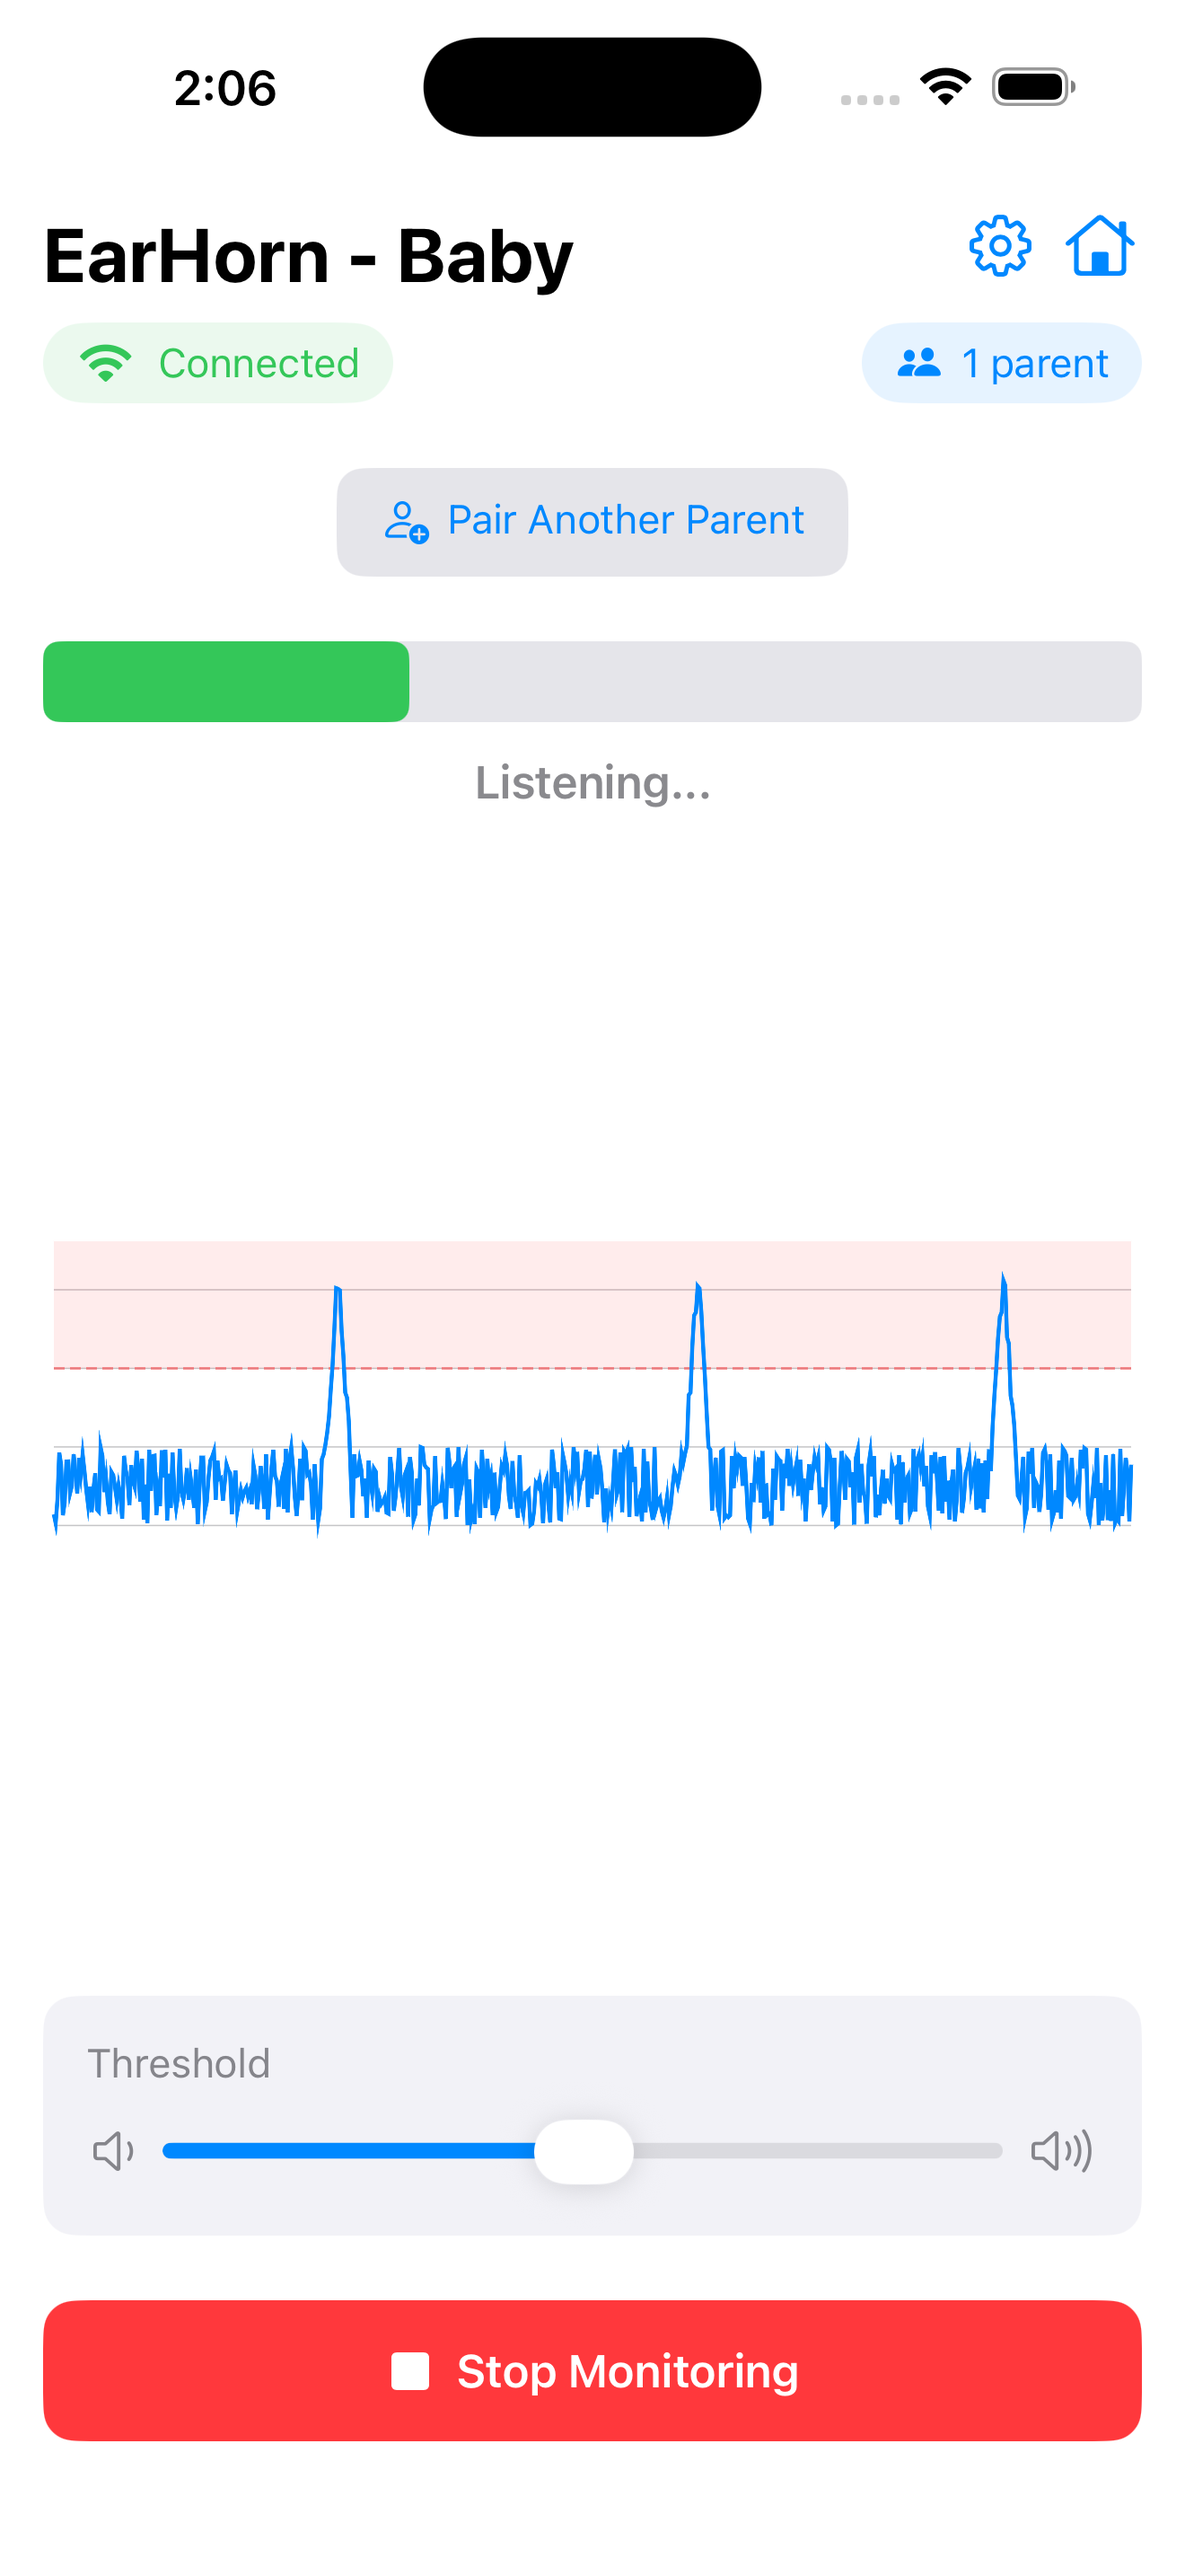
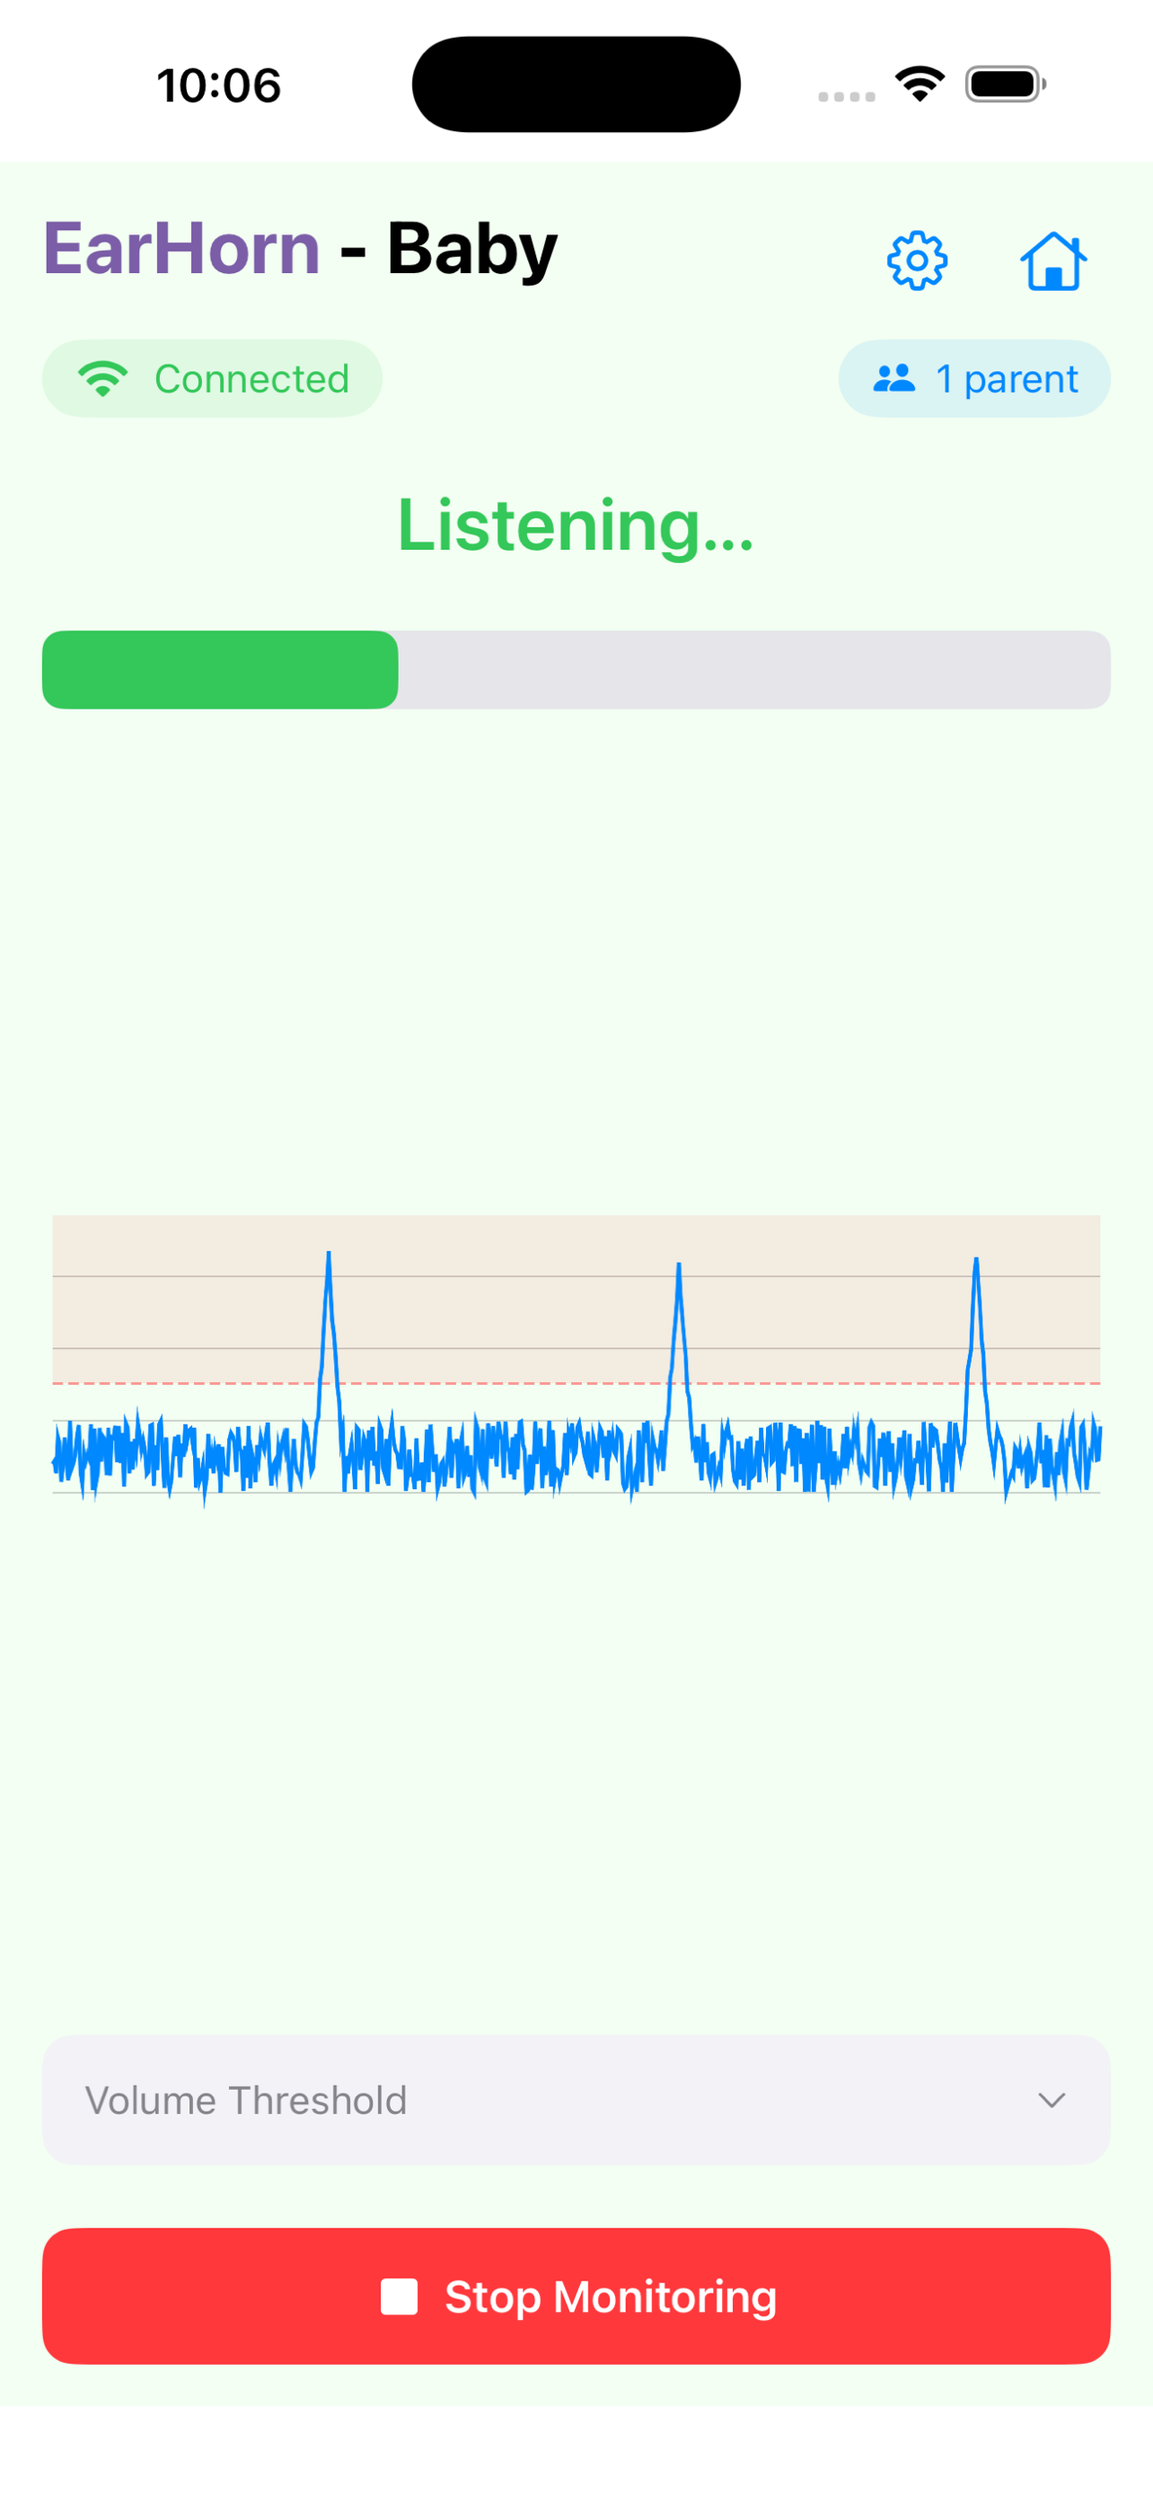
new post, updated timeline, updated screenshots

diff --git a/assets/css/style.css b/assets/css/style.css
@@ -428,6 +428,25 @@ a:hover {
     color: var(--color-text-muted);
 }
 
+/* ── In-post images ────────────────────────────── */
+.post-image {
+    margin: 2em 0;
+    text-align: center;
+}
+
+.post-image img {
+    border-radius: var(--radius);
+    box-shadow: 0 4px 16px rgba(0, 0, 0, 0.1);
+    max-width: 100%;
+    height: auto;
+}
+
+.post-image figcaption {
+    margin-top: 8px;
+    font-size: 0.85em;
+    color: var(--color-text-muted);
+}
+
 @media (max-width: 600px) {
     .screenshot-row {
         flex-direction: column;

diff --git a/_posts/2026-04-29-a-week-long-trip-to-the-pnw-with-a-rough-draft-of-earhorn.md b/_posts/2026-04-29-a-week-long-trip-to-the-pnw-with-a-rough-draft-of-earhorn.md
@@ -1,0 +1,63 @@
+---
+layout: post
+title: "A Week-Long Trip to the PNW with a Rough Draft of EarHorn"
+description: "I flew to the Pacific Northwest with a baby, no hardware monitor, and a buggy early build of EarHorn. Here's what travel taught me about the bugs you can't find at home — and why a baby monitor that fits in a pocket changed how I see the whole thing."
+date: 2026-04-29
+---
+
+My wife and I flew up to the Pacific Northwest this spring to visit family — a full week away. And when you're flying with a baby, space isn't a luxury. It's the whole game. Every cubic inch of the carry-on is spoken for before you've even zipped it: diapers, the white noise machine, half a dozen stuffed animals, the bag of snacks that buys you twenty minutes of peace at the gate.
+
+So when I looked at our hardware baby monitor — the camera, the parent unit, the tangle of chargers — I made a call. It wasn't coming. There was no room, and I wasn't about to check a bag over a baby monitor.
+
+Instead I brought a spare phone and a charging cable. That's the entire monitor. It went in a side pocket and I forgot it was there until we needed it. I'd been building the app for months, but this was the first real test with no backup waiting at home.
+
+## The bugs you only find on the road
+
+Here's the honest part: it worked, but it wasn't perfect.
+
+At home, on my own WiFi, in my own nursery, everything had always just worked. A week in an unfamiliar Airbnb is a different story — new router, new network quirks, a different room layout, a phone propped in a spot it had never sat before. Travel is exactly the situation that drags out the bugs you didn't know you had.
+
+This one was sneaky. The Airbnb WiFi would blink out for about half a second at a time. Not enough for a human to notice — you'd never catch it loading a webpage, and a movie would buffer right through a hiccup that short. But EarHorn, at the time, treated every one of those blips as a full disconnect and started the pairing handshake over from scratch. The result was a few seconds of dead air every time the router so much as flickered.
+
+And a few seconds of dead air on a baby monitor are exactly the few seconds you don't want to miss.
+
+The fix was teaching it to ride out a brief gap — to reconnect quietly in the background instead of panicking and rebuilding the whole connection from the ground up. Simple in hindsight. Invisible until you're standing in someone else's guest room at night, depending on the thing to actually work.
+
+There's no test suite like genuinely needing the app, far from home, with a sleeping kid down the hall.
+
+## Late nights and a very quiet door
+
+So the routine set in. Once the kiddo went down, I'd pull the laptop out at the kitchen table and dig in — find what was going wrong, write the fix, build a fresh version onto the phone.
+
+Then came the tricky part. To actually test a fix, I had to swap the running app on the phone in the baby's room. Which meant creeping in, re-pairing the two phones in the dark, and creeping back out without waking anyone.
+
+I got very good at opening that door slowly.
+
+Every morning the app was a little better than it had been the night before.
+
+## Hard mode
+
+One day we decided to walk onto a ferry to visit yet more family across the water. No car this time — just two backpacks and a stroller, which is about as lean as travel with a baby gets.
+
+<figure class="post-image">
+    <img src="{{ '/assets/images/pnw-ferry-deck.jpeg' | relative_url }}" alt="The open upper deck of a ferry with rows of empty orange seats, snow-capped mountains and a small waterfront town across the water under a blue sky" loading="lazy">
+    <figcaption>The view from the ferry deck — the whole nursery setup fit in a backpack.</figcaption>
+</figure>
+
+A hardware monitor would have been the first thing cut from that list. There's simply no room for one when you're carrying everything on your back.
+
+The phone came along without a second thought. It weighs nothing, it takes up no space, and that night it set up in the spare bedroom in under a minute — exactly like it had back at the Airbnb. If the carry-on was hard mode, the ferry was hard mode with a hand tied behind my back, and the phone fit right in.
+
+That was the leg of the trip where I stopped thinking of phone-as-monitor as a compromise and started seeing it as the whole point.
+
+## What came home with me
+
+Two things made the trip back.
+
+The first was a noticeably more reliable app. Travel bugs are the worst kind — they make everything shakier everywhere — so fixing this one didn't just help me in one Airbnb. It helps every family who'll ever set EarHorn up somewhere unfamiliar, which, it turns out, is when you need a baby monitor most.
+
+The second was quieter, and it stuck. The best baby monitor is the one you already own. And when you're flying, it's the one that barely takes up any space at all.
+
+Thanks for reading.
+
+*EarHorn is a convenience tool for audio monitoring and is not a substitute for attentive supervision.*

diff --git a/_posts/2026-03-07-baby-monitor-app-vs-hardware-monitor.md b/_posts/2026-03-07-baby-monitor-app-vs-hardware-monitor.md
@@ -95,6 +95,6 @@ For most families, the answer isn't one or the other — it's both for different
 
 EarHorn is built to be the monitor you always have with you, not a replacement for your nursery setup. It's the one that's in your pocket when you need it and sets up in under a minute wherever you are. Got an old iPhone in a drawer? See our guide on [how to turn it into a baby monitor]({{ '/blog/how-to-turn-old-iphone-into-baby-monitor' | relative_url }}).
 
-EarHorn launches April 2026. [Get notified →]({{ '/download' | relative_url }})
+EarHorn launches June 2026. [Get notified →]({{ '/download' | relative_url }})
 
 *Feature comparisons reflect products available as of March 2026 and may not reflect current offerings. EarHorn is a convenience tool for audio monitoring and is not a substitute for attentive supervision.*

diff --git a/index.md b/index.md
@@ -8,7 +8,7 @@ permalink: /
 <section class="hero">
     <h1>Two iPhones. One Baby Monitor.<br>Zero Subscriptions.</h1>
     <p class="hero-sub">EarHorn turns any two iPhones into a secure, private baby monitor app — the one that's already in your pocket when you're traveling, visiting family, or anywhere you don't have your nursery setup. No extra hardware. No cloud accounts. No monthly fees. No constant white noise stream in your ear.</p>
-    <a href="{{ '/download' | relative_url }}" class="btn-cta">Coming April 2026</a>
+    <a href="{{ '/download' | relative_url }}" class="btn-cta">Coming June 2026</a>
     <p class="hero-note">One-time purchase. Available on iPhone.</p>
 </section>
 

diff --git a/_posts/2026-03-10-why-earhorn-has-no-cloud-servers.md b/_posts/2026-03-10-why-earhorn-has-no-cloud-servers.md
@@ -74,6 +74,6 @@ We believe the strongest privacy approach isn't just a policy — it's architect
 
 EarHorn is built so that audio data flows only between your paired devices over your local network. We have no servers receiving it, no infrastructure storing it, and no way to access it.
 
-EarHorn launches April 2026. [Get notified →]({{ '/download' | relative_url }})
+EarHorn launches June 2026. [Get notified →]({{ '/download' | relative_url }})
 
 *EarHorn is a convenience tool for audio monitoring and is not a substitute for attentive supervision.*

diff --git a/download.md b/download.md
@@ -8,7 +8,7 @@ permalink: /download/
 <style>.page-header { text-align: center; }</style>
 
 <div style="text-align: center; padding: 1em 0 0.5em;">
-    <p style="font-size: 1.3em; font-weight: 600; color: var(--color-heading);">EarHorn will be available on the App Store in April 2026.</p>
+    <p style="font-size: 1.3em; font-weight: 600; color: var(--color-heading);">EarHorn will be available on the App Store in June 2026.</p>
     <p class="text-muted">One-time purchase. No subscription.</p>
 </div>
 

diff --git a/_posts/2026-03-14-how-to-turn-old-iphone-into-baby-monitor.md b/_posts/2026-03-14-how-to-turn-old-iphone-into-baby-monitor.md
@@ -87,6 +87,6 @@ The 6-character pairing code uses PBKDF2 key derivation with 600,000 iterations,
 
 ## Get started
 
-EarHorn will be available on the App Store in April 2026. [Get notified when it launches →]({{ '/download' | relative_url }})
+EarHorn will be available on the App Store in June 2026. [Get notified when it launches →]({{ '/download' | relative_url }})
 
 *EarHorn is a convenience tool for audio monitoring and is not a substitute for attentive supervision.*

diff --git a/press.md b/press.md
@@ -17,7 +17,7 @@ EarHorn is an iOS baby monitor app that turns two iPhones into a secure audio mo
 <tr><td>Platform</td><td>iOS (iPhone)</td></tr>
 <tr><td>Requires</td><td>iOS 16.7 or later</td></tr>
 <tr><td>Price</td><td>One-time purchase (no subscription)</td></tr>
-<tr><td>Launch</td><td>April 2026</td></tr>
+<tr><td>Launch</td><td>June 2026</td></tr>
 <tr><td>Website</td><td><a href="https://earhorn.app">earhorn.app</a></td></tr>
 </table>
 
